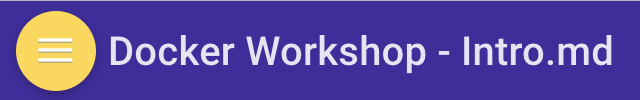
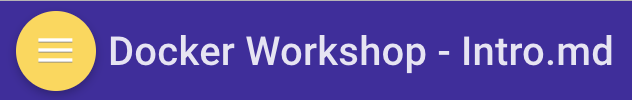
Minor change to intro related files

diff --git a/workshops/docker/Intro.md b/workshops/docker/Intro.md
@@ -34,6 +34,6 @@ To learn more about this workshop please watch the video below.
 - [Click here to navigate to Lab 50](Linux050.md)
 - _You can see a list of Lab Guides_ by clicking on the **Menu Icon** hamburger in the upper left corner of the browser window. Then, **Select Lab 050: Cloud Infrastructure Configuration**.
 
-  ![](images/Introham.png)
+  <img src="images/Introham.png" width="50%">
 
-  ![](images/Introham2.png)
+  <img src="images/Introham.png" width="50%">
